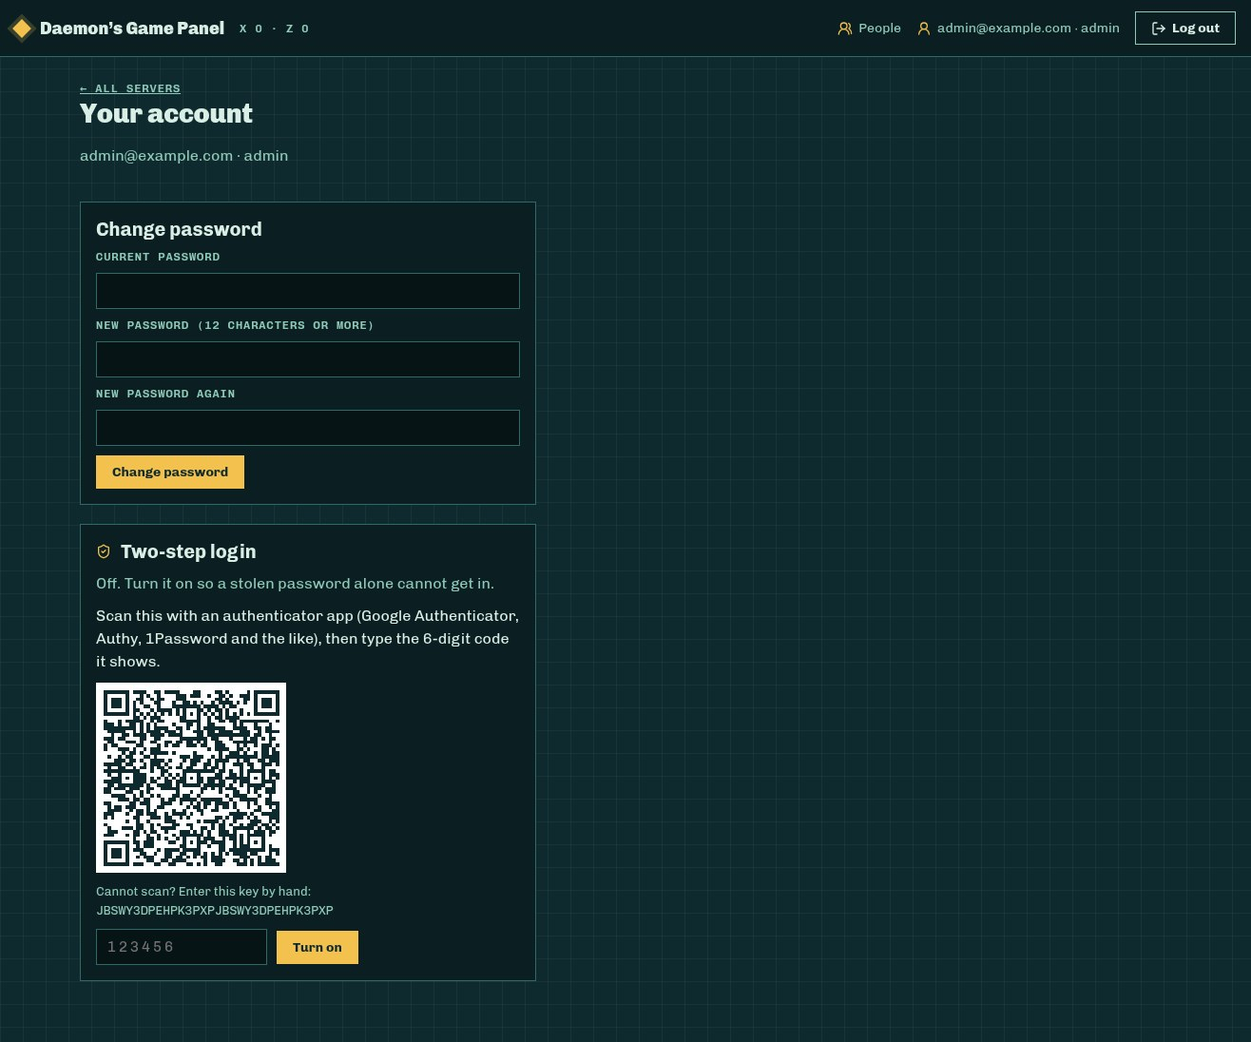
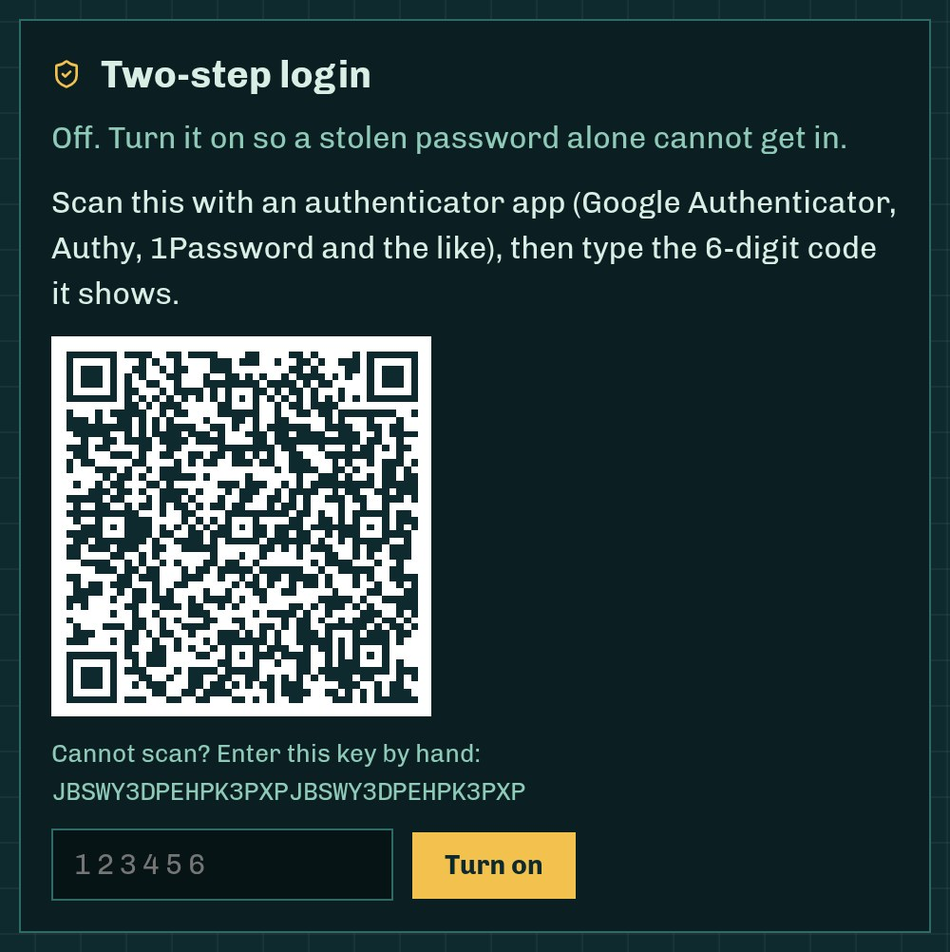
Game panel page: readable panel crops with captions
Replace the twenty full-window screenshots with twenty-seven crops of single
panels taken at 2x, each in a figure with a caption. Small crops sit beside
the paragraph that talks about them (new .side and .mid figure styles),
two-step and login share a row, everything else runs full width. Example
data only, as before.

diff --git a/src/styles/site.css b/src/styles/site.css
@@ -655,6 +655,31 @@ section.block {
     max-width: 24rem;
 }
 
+/* A small panel crop beside the paragraph that talks about it; stacks on phones. */
+.prose figure.side {
+    float: right;
+    width: min(100%, 22rem);
+    margin: 0.25rem 0 1rem 1.5rem;
+}
+
+/* A form or dialog crop that should not stretch across the column. */
+.prose figure.mid {
+    max-width: 34rem;
+}
+
+.prose h2,
+.prose h3 {
+    clear: both;
+}
+
+@media (max-width: 48rem) {
+    .prose figure.side {
+        float: none;
+        width: 100%;
+        margin: 1.5rem 0;
+    }
+}
+
 .prose figcaption {
     margin-top: 0.6rem;
     font-size: 0.95rem;

diff --git a/src/content/projects/gamepanel.md b/src/content/projects/gamepanel.md
@@ -12,7 +12,7 @@ order: 3
 
 ## Overview
 
-I built this because I wanted to run a Minecraft server for a friend who had just come home from deployment, on a machine I already owned, without handing the keys to a hosting company. Every panel I tried was either a rented slot on someone else's hardware or a pile of scripts that only I could operate. So I wrote the panel I wanted: one web page where you start and stop servers, watch the console, manage players, plugins, files, databases and backups, and share all of that with the people who actually play.
+I built this because I wanted to run a Minecraft server for a friend who had just come home from deployment, on a machine I already owned, without handing the keys to a hosting company. Every panel I tried was either a rented slot on someone else's hardware or a pile of scripts that only I could operate. So I wrote the panel I wanted: one web page where you start and stop servers, watch the console, manage players, plugins, files, backups and databases, and hand a friend their own server with a link.
 
 Minecraft is the first game it runs. Paper, Purpur, Vanilla, Fabric, Forge and NeoForge all work, each server in its own container on a machine you control.
 
@@ -22,47 +22,97 @@ It is also careful on your behalf. A backup is taken before every risky change, 
 
 ## What you see when you log in
 
-Every server on one page: whether it is running, the address to hand out (one click copies it), who is on, how hard the CPU is working, how much RAM is in use and a trend line for the last hour. If a server is running out of RAM, the panel says so at the top instead of leaving you to find out from a lag report.
+<figure class="side">
+<img src="/projects/gamepanel/server-card.jpg" alt="A server card: Perpetual Wonders, running, the address with a Copy button, type, players, CPU, port, a RAM bar and a CPU line for the last hour" width="746" height="594" loading="lazy">
+<figcaption>One card per server. Copy the address, see who is on, and spot a RAM problem before anyone complains about lag.</figcaption>
+</figure>
 
-<img src="/projects/gamepanel/dashboard.jpg" alt="The Servers page: a server card with status, address, players, CPU and RAM, a node card with 24-hour graphs, and the start, restart and stop all buttons" width="1316" height="860" loading="lazy">
+Every server on one page: whether it is running, the address to hand out (one click copies it), who is on, how hard the CPU is working, how much RAM is in use and a trend line for the last hour. If a server is running out of RAM, the panel says so at the top instead of leaving you to find out from a lag report.
 
 Admins also see each game machine: RAM promised to servers against what the box has, disk used, and 24-hour graphs for both. From the same page you can send a message to every server at once (handy before a restart) or start, restart and stop all of them.
 
+<figure>
+<img src="/projects/gamepanel/node.jpg" alt="The node card: RAM promised 8.0 GB of 15.6 GB, disk used 12.9 GB of 119.9 GB, and 24-hour graphs for both" width="2216" height="754" loading="lazy">
+<figcaption>The machine itself. The dashed line on each graph is the limit, so you can see how close you are running.</figcaption>
+</figure>
+
+<figure>
+<img src="/projects/gamepanel/tools.jpg" alt="The dashboard tools: find a server, a message box that sends to every server, and Start all, Restart all and Stop all buttons" width="2216" height="430" loading="lazy">
+<figcaption>Find a server by name, port, IP, type or memory; warn everyone at once; start or stop the lot.</figcaption>
+</figure>
+
 ### One server, everything on one page
 
-Open a server and the first tab is the overview: connection info with the address, edition, version and whether the whitelist is on, plus a ready-made set of join steps you can send to a friend who has never joined a server before. Below that: TPS, tick time, players, uptime, CPU and RAM, each with a note about what a good number looks like, and performance graphs over the last hour, the last day or the last week. Samples are taken every 30 seconds and kept for 8 days.
+Open a server and the first tab is the overview: connection info with the address, edition, version and whether the whitelist is on, plus a ready-made set of join steps you can send to a friend who has never joined a server before.
 
-<img src="/projects/gamepanel/server-overview.jpg" alt="A server overview with connection info, TPS, tick time, players, uptime, CPU and RAM tiles, and six performance graphs" width="1316" height="905" loading="lazy">
+<figure>
+<img src="/projects/gamepanel/connection.jpg" alt="Connection info: play.example.com with a Copy address button, edition Java, Minecraft 1.21.4, whitelist on, IP and port, and a Join steps to send a friend link" width="2216" height="422" loading="lazy">
+<figcaption>Everything a new player asks you for, in one block, with join steps written for someone who has never done it.</figcaption>
+</figure>
+
+Below that: TPS, tick time, players, uptime, CPU and RAM, each with a note about what a good number looks like, and performance graphs over the last hour, the last day or the last week. Samples are taken every 30 seconds and kept for 8 days.
+
+<figure>
+<img src="/projects/gamepanel/tiles.jpg" alt="Six tiles: TPS 20.0, tick time 0.1 ms, players 3 of 20, up time 21 min, CPU 1.2 percent, RAM 6.8 GB of 7.5 GB, each with a one-line note" width="2216" height="288" loading="lazy">
+<figcaption>The numbers, each with a line that says what good looks like. "Under 50 ms keeps 20 TPS" saves a search.</figcaption>
+</figure>
+
+<figure>
+<img src="/projects/gamepanel/graphs.jpg" alt="Performance graphs for the last hour: TPS, tick time, players, CPU, RAM and disk, with 1 hour, 24 hours and 7 days buttons" width="2216" height="912" loading="lazy">
+<figcaption>Was it laggy last night? Switch to 24 hours and look at the tick time line.</figcaption>
+</figure>
 
 ## The console
 
 The live server console in your browser, with command history on the up arrow, the way a terminal behaves. Every command anyone sends is recorded in the audit log with their name, so when a plugin config "changed itself", you can see who typed what.
 
-<img src="/projects/gamepanel/console.jpg" alt="The live console with coloured server output and a command line at the bottom" width="1316" height="670" loading="lazy">
+<figure>
+<img src="/projects/gamepanel/console.jpg" alt="The live console: Paper starting, plugins loading, players joining and chatting, and a command line at the bottom" width="2216" height="1084" loading="lazy">
+<figcaption>The console follows new lines until you scroll up to read something, then stays put.</figcaption>
+</figure>
 
 ## Players
 
-Who is online right now, and buttons for the things you do a hundred times: message, kick, op, ban. The whitelist is its own list with a switch, operators have their level shown, bans keep their reason, and there is a list of everyone the server has ever seen with the last time they were on. No command syntax to remember and no typos in a player's name.
+Who is online right now, and buttons for the things you do a hundred times: message, kick, op, ban. No command syntax to remember and no typos in a player's name.
 
-<img src="/projects/gamepanel/players.jpg" alt="The Players tab: three players online with message, kick, op and ban buttons, the whitelist, operators, a banned player with the reason, and everyone the server has seen" width="1316" height="1421" loading="lazy">
+<figure>
+<img src="/projects/gamepanel/players.jpg" alt="Three players online, each with Message, Kick, Op or Deop and Ban buttons" width="2216" height="474" loading="lazy">
+<figcaption>Online now. The op badge shows who already has it; the button flips between Op and Deop.</figcaption>
+</figure>
+
+The whitelist is its own list with a switch, operators have their level shown, bans keep their reason, and there is a list of everyone the server has ever seen with the last time they were on.
+
+<figure>
+<img src="/projects/gamepanel/whitelist.jpg" alt="The whitelist with five names and an On: invite only switch, beside the operators list showing Marnie at level 4" width="2216" height="638" loading="lazy">
+<figcaption>Whitelist and operators side by side. Add a name, remove a name, done.</figcaption>
+</figure>
 
 ## Plugins and mods
 
 Every installed plugin (or mod, on Fabric, Forge and NeoForge) with its version. Switch one off without deleting it, or move it to the trash. Search Modrinth and Hangar from inside the panel for plugins that fit the server's Minecraft version and install them in one click. Files are only ever fetched from those two sites' own servers and checked against the hash they publish, so a plugin that has been tampered with on the way does not get installed.
 
-<img src="/projects/gamepanel/plugins.jpg" alt="The Plugins tab listing installed plugins with versions, on and off switches, and a search box for Modrinth and Hangar" width="1316" height="905" loading="lazy">
+When a plugin has a newer stable release for your Minecraft version, the panel offers the update next to it. Big jumps (say 3.x to 4.x) are flagged, because those are the ones that change configs and commands.
 
-When a plugin has a newer stable release for your Minecraft version, the panel offers the update next to it. Big jumps (say 4.x to 5.x) are flagged, because those are the ones that change configs and commands.
+<figure>
+<img src="/projects/gamepanel/plugins.jpg" alt="Installed plugins with versions and file sizes, Update buttons where a newer version exists, Turn off and trash buttons, and a search box for Modrinth and Hangar" width="2216" height="1266" loading="lazy">
+<figcaption>Three updates waiting. Dynmap's is a big jump, so the button says so before you press it.</figcaption>
+</figure>
 
 ## Minecraft version updates without the panic
 
 Updating Minecraft used to mean a weekend. The panel tells you when a newer version is out and suggests the sensible one: the newest release in your current line, or the newest overall.
 
-<img src="/projects/gamepanel/version-update.jpg" alt="The Settings tab suggesting a newer Minecraft version for the server" width="1316" height="905" loading="lazy">
+<figure>
+<img src="/projects/gamepanel/version.jpg" alt="The version box: Minecraft 1.21.11 is available, you are on 1.21.4, with a Check my plugins button and the type and version pickers" width="2216" height="486" loading="lazy">
+<figcaption>The nudge. Nothing changes until you press Change, and Change is greyed out while the server runs.</figcaption>
+</figure>
 
 Before you change anything, press **Check my plugins**. It looks every plugin up and tells you which ones are ready for the new version, which are not there yet, and which it cannot tell. If a plugin would break, you know before the server is down, not after.
 
-<img src="/projects/gamepanel/plugin-check.jpg" alt="The plugin check before a version change: each plugin marked ready, not yet, or unknown for the target version" width="1316" height="905" loading="lazy">
+<figure>
+<img src="/projects/gamepanel/plugin-check.jpg" alt="The plugin check for 1.21.11: 3 ready, 1 not yet, 1 check by hand, with each plugin's result and a warning that one plugin may not load" width="2216" height="1038" loading="lazy">
+<figcaption>CoreProtect has no build for 1.21.11 yet. That is the weekend you just did not lose.</figcaption>
+</figure>
 
 When you do switch, the panel stops the server, takes a backup first, moves it to the new version with the right Java for it, and starts it again.
 
@@ -70,51 +120,90 @@ When you do switch, the panel stops the server, takes a backup first, moves it t
 
 A file manager for the server folder: browse, upload (big files go up in pieces so a flaky connection does not kill the transfer), download, rename, and make new files and folders. Deleting moves things to a trash folder instead of destroying them.
 
-<img src="/projects/gamepanel/files.jpg" alt="The Files tab showing the server folder with world folders, plugins, logs and config files, each with download, rename and delete buttons" width="1316" height="900" loading="lazy">
+<figure>
+<img src="/projects/gamepanel/files.jpg" alt="The server folder: plugins, world, logs and config folders, then server.properties, bukkit.yml, spigot.yml and the other files, each with download, rename and delete buttons" width="2216" height="1574" loading="lazy">
+<figcaption>The server folder. Folders first, then files with their size and date.</figcaption>
+</figure>
 
 Open a text file and you get a proper code editor with line numbers and syntax colouring, so editing a plugin config is a two-minute job from your phone, not a trip to the machine. Ctrl+S saves.
 
-<img src="/projects/gamepanel/file-editor.jpg" alt="server.properties open in the built-in code editor with line numbers, syntax colouring, and Save and Close buttons" width="1316" height="900" loading="lazy">
+<figure>
+<img src="/projects/gamepanel/editor.jpg" alt="server.properties open in the editor with line numbers and coloured keys, and Save and Close buttons" width="2216" height="1306" loading="lazy">
+<figcaption>server.properties in the editor. Save lights up when something has changed.</figcaption>
+</figure>
 
 ## Settings
 
+<figure class="side">
+<img src="/projects/gamepanel/settings.jpg" alt="The General group of settings: the MOTD shown in colour, the message of the day field, max players, and the whitelist switches" width="746" height="808" loading="lazy">
+<figcaption>The MOTD preview shows the colour codes the way the server list will.</figcaption>
+</figure>
+
 `server.properties` as a form, grouped into General, Gameplay, World, Players and Advanced, with a line under each setting saying what it does and what it costs. The message of the day is previewed with its colour codes the way it will look in the server list, so you are not counting section signs.
 
-<img src="/projects/gamepanel/settings.jpg" alt="The Settings tab: server.properties as a form with switches and fields, and the MOTD shown in colour" width="1316" height="900" loading="lazy">
+Switches are switches, numbers are numbers, and the panel knows which settings need a restart to take effect and tells you.
 
 ## Databases
 
 Plenty of plugins want a real database, and setting one up by hand is the step where most people give up. Here it is one button. The panel runs MariaDB on the game machine, creates a database for the server, and shows you the host, user and password to paste into the plugin's config.
 
-<img src="/projects/gamepanel/databases.jpg" alt="The Databases tab with a database and its connection details, table list and row browser" width="1316" height="530" loading="lazy">
+<figure>
+<img src="/projects/gamepanel/databases.jpg" alt="Two databases with host, port, database, username and a hidden password, New password and Delete buttons, and a Create database box" width="2216" height="1110" loading="lazy">
+<figcaption>Each database with exactly the five values a plugin config asks for. The eye button shows the password.</figcaption>
+</figure>
 
 You can browse the tables and rows, fix or delete a single row, or run a query. Queries are read-only unless you tick **Allow changes**, and even then it warns you and asks again. A snapshot is taken before every change, every change is logged, and the databases are included in the server's backups. Each server reaches its databases over its own private link, so servers cannot see each other's data.
+
+<figure>
+<img src="/projects/gamepanel/tables.jpg" alt="The table browser: the tables in pw_essentials with row counts, and the first rows of luckperms_players" width="2216" height="846" loading="lazy">
+<figcaption>Browse a table without leaving the panel. Edit a row and a snapshot is taken first.</figcaption>
+</figure>
 
 ## Backups and schedules
 
 Backups run while people keep playing. The world is held still for the few seconds the archive is being made, then released. Keep the newest N backups, download one, or restore one. A restore takes its own backup first, so even a restore is undoable.
 
-<img src="/projects/gamepanel/backups.jpg" alt="The Backups tab: a list of backups with size and date, a keep count, and back up, restore and download buttons" width="1316" height="495" loading="lazy">
+<figure>
+<img src="/projects/gamepanel/backups.jpg" alt="Back up now, keep newest 7, and five backups listed with their size and whether they came from a schedule, by hand or before a restore" width="2216" height="828" loading="lazy">
+<figcaption>Each backup says where it came from. The pre-restore one is the safety net the panel made on its own.</figcaption>
+</figure>
 
 Schedules do the boring part for you: back up, restart, save the world, run a command or send a chat message, either every N minutes or at set times on chosen days, in your own time zone. A scheduled restart warns players a minute before. Each schedule shows when it last ran and whether it worked.
 
-<img src="/projects/gamepanel/schedules.jpg" alt="The Schedules tab: a daily backup, a warning message, a restart, a save every 30 minutes and a weekend command, each with its last run" width="1316" height="941" loading="lazy">
+<figure>
+<img src="/projects/gamepanel/schedules.jpg" alt="Five schedules: a daily backup, a chat warning, a restart, a save every 30 minutes and a weekend command, each with its last run and an On or Off switch" width="2216" height="1026" loading="lazy">
+<figcaption>A typical night: warn at 4:25, restart at 4:30, backup before both. The weekend command is switched off until it is needed.</figcaption>
+</figure>
 
 ## Logs
 
 The current log, older logs and crash reports in one place, searchable. Type ERROR, or a player's name, and you get only the matching lines with their line numbers, errors highlighted. If there is a crash report, the panel points it out so you do not miss it.
 
-<img src="/projects/gamepanel/logs.jpg" alt="The Logs tab with the log file picker, a search for ERROR, and the two matching lines highlighted" width="1316" height="900" loading="lazy">
+<figure>
+<img src="/projects/gamepanel/logs.jpg" alt="The log picker on latest.log, a search for ERROR, a notice that there is a crash report, and the two matching lines highlighted" width="2216" height="526" loading="lazy">
+<figcaption>Two lines out of twenty-two, and a note that a crash report is waiting in the list.</figcaption>
+</figure>
 
 ## People
 
 This is the part I cared about most. Three roles: **admin** (everything), **owner** (runs their own servers within a quota) and **subuser** (a helper who only sees what is shared with them). An admin invites someone from the People page: type their email, pick the role, and the panel makes a one-time link that works for seven days. There is no email server to set up; you paste the link into a message yourself.
 
-<img src="/projects/gamepanel/people.jpg" alt="The People page: an invite form, every account with role, two-step badge and usage against quota, and the list of links sent" width="1316" height="900" loading="lazy">
+<figure>
+<img src="/projects/gamepanel/invite-form.jpg" alt="The invite form: an email box, a role picker set to Owner, and a Make invite link button" width="2216" height="188" loading="lazy">
+<figcaption>Email, role, button. The link it makes is the only thing you send.</figcaption>
+</figure>
+
+<figure>
+<img src="/projects/gamepanel/people.jpg" alt="Everyone: an admin, two owners with their server, RAM and disk usage against their limits, a subuser, and a turned-off account, with Limits, Reset link and Turn off buttons" width="2216" height="810" loading="lazy">
+<figcaption>Everyone with an account. Owners show how much of their quota they are using; the 2-step badge shows who has two-step login on.</figcaption>
+</figure>
+
+<figure class="side">
+<img src="/projects/gamepanel/invite.jpg" alt="The invite page: Welcome, set a password for sam@example.com, two password boxes and a Join and log in button" width="880" height="632" loading="lazy">
+<figcaption>What the other person sees. One password, twice, and they are in.</figcaption>
+</figure>
 
 The person opens the link, sets a password, and they are in. An invite can also hand them a server on the way in, so a friend's first login already shows their own world.
-
-<img src="/projects/gamepanel/invite.jpg" alt="The invite page asking the new person to set a password" width="1316" height="900" loading="lazy">
 
 Each owner has a quota: how many servers, how much RAM and how much disk. Admins can turn an account off (which ends its sessions on the spot), make a password reset link, and set a per-server disk cap that is enforced on the game machine itself.
 
@@ -122,21 +211,34 @@ Each owner has a quota: how many servers, how much RAM and how much disk. Admins
 
 An owner can share a server with anyone who has an account and tick exactly what that person may do: console and commands, start and stop, players, files, plugins, backups, schedules, logs, settings, databases. A helper with only console and logs sees only those two tabs, and nothing else about your setup.
 
-<img src="/projects/gamepanel/sharing.jpg" alt="The sharing section on a server's Settings tab: an email box, ten permission chips, and two people with the rights each one has" width="1316" height="900" loading="lazy">
+<figure>
+<img src="/projects/gamepanel/sharing.jpg" alt="Who else can use this server: an email box, ten permission chips with three ticked, and two people listed with the rights each one has" width="2216" height="800" loading="lazy">
+<figcaption>Priya gets console, players and logs. Jordan gets nearly everything. Neither sees the databases.</figcaption>
+</figure>
 
 ## Two-step login
 
 Any account can turn on two-step login from its account page. Scan the code with Google Authenticator, Authy, 1Password or any app of that kind, type the six digits once to prove it works, and from then on the login page asks for the code after the password. The People page shows a badge next to everyone who has it on.
 
-<img src="/projects/gamepanel/two-step.jpg" alt="The account page with the two-step login setup: a QR code, the key for typing by hand, and the box for the first code" width="1316" height="1096" loading="lazy">
-
-<img src="/projects/gamepanel/login.jpg" alt="The login page" width="1316" height="900" loading="lazy">
+<div class="shots">
+<figure>
+<img src="/projects/gamepanel/two-step.jpg" alt="Two-step login setup: a QR code, the key for typing by hand, a box for the first six-digit code and a Turn on button" width="1000" height="1002" loading="lazy">
+<figcaption>Turning it on. The key is there for people who cannot scan.</figcaption>
+</figure>
+<figure>
+<img src="/projects/gamepanel/login.jpg" alt="The login page: email, password and a Log in button" width="800" height="660" loading="lazy">
+<figcaption>The front door. With two-step on, a code box follows the password.</figcaption>
+</figure>
+</div>
 
 ## Starting a new server
 
 Name it, pick the type, pick the Minecraft version (or leave LATEST), set RAM, CPU cores and disk with sliders, accept the Minecraft EULA for that server, and press **Create and start**. The panel picks the next free port, creates the container on a game machine and starts it. The first start downloads the game, so give it a minute.
 
-<img src="/projects/gamepanel/new-server.jpg" alt="The New server form: name, six server types, Minecraft version, RAM, CPU and disk sliders, and the EULA tick box" width="1316" height="980" loading="lazy">
+<figure class="mid">
+<img src="/projects/gamepanel/new-server.jpg" alt="The New server form: name, six server types with a line each, Minecraft version, RAM and disk sliders, CPU cores, the EULA tick box and Create and start" width="1320" height="1460" loading="lazy">
+<figcaption>Six types, each with one line saying who it is for. Paper is the usual choice.</figcaption>
+</figure>
 
 ## How it works
 
@@ -144,11 +246,11 @@ Players and admins only ever see the web page. Behind it, the panel is split in 
 
 **The panel** runs on one machine as a Docker Compose stack: the Vue 3 web app, a Fastify API on Node.js and PostgreSQL. The API owns accounts, permissions, the audit log and metrics, and it is the only thing that talks to the game machines.
 
-**Each game machine** (a "node") runs a small Node.js agent and Docker. The agent runs each Minecraft server in its own container from the widely used `itzg/minecraft-server` image, and handles files, backups, the server console over RCON, the node's MariaDB and disk quotas. Nodes are a list in the database, so adding a second machine is one admin command.
+**Each game machine** (a "node") runs a small Node.js agent and Docker. The agent runs each Minecraft server in its own container from the widely used `itzg/minecraft-server` image, and handles files, backups, the server console over RCON, the node's MariaDB and disk quotas. Nodes are a list in the panel; add a second machine and new servers can go on either.
 
 **Between them**, the panel calls each agent over HTTPS with that node's own pinned certificate plus a per-node token. The agent accepts calls from nothing else.
 
-**Isolation on the node.** Game containers run as an unprivileged user with every Linux capability dropped, and cannot talk to each other. A node firewall keeps containers off private address ranges and off the node itself. Each server gets its own database link, and per-server disk caps are XFS project quotas, so a runaway world cannot fill the disk for everyone.
+**Isolation on the node.** Game containers run as an unprivileged user with every Linux capability dropped, and cannot talk to each other. A node firewall keeps containers off private address ranges and off the node itself. Each server gets its own database link, and per-server disk caps are XFS project quotas, enforced by the file system rather than by the panel asking nicely.
 
 **Code layout.** The repository is a pnpm workspace with three apps (the web app, the API and the node agent) and a shared package of types and validation used by all three. Passwords are hashed with Argon2, and sessions, invite links and node tokens are stored hashed, never in the clear.
 
